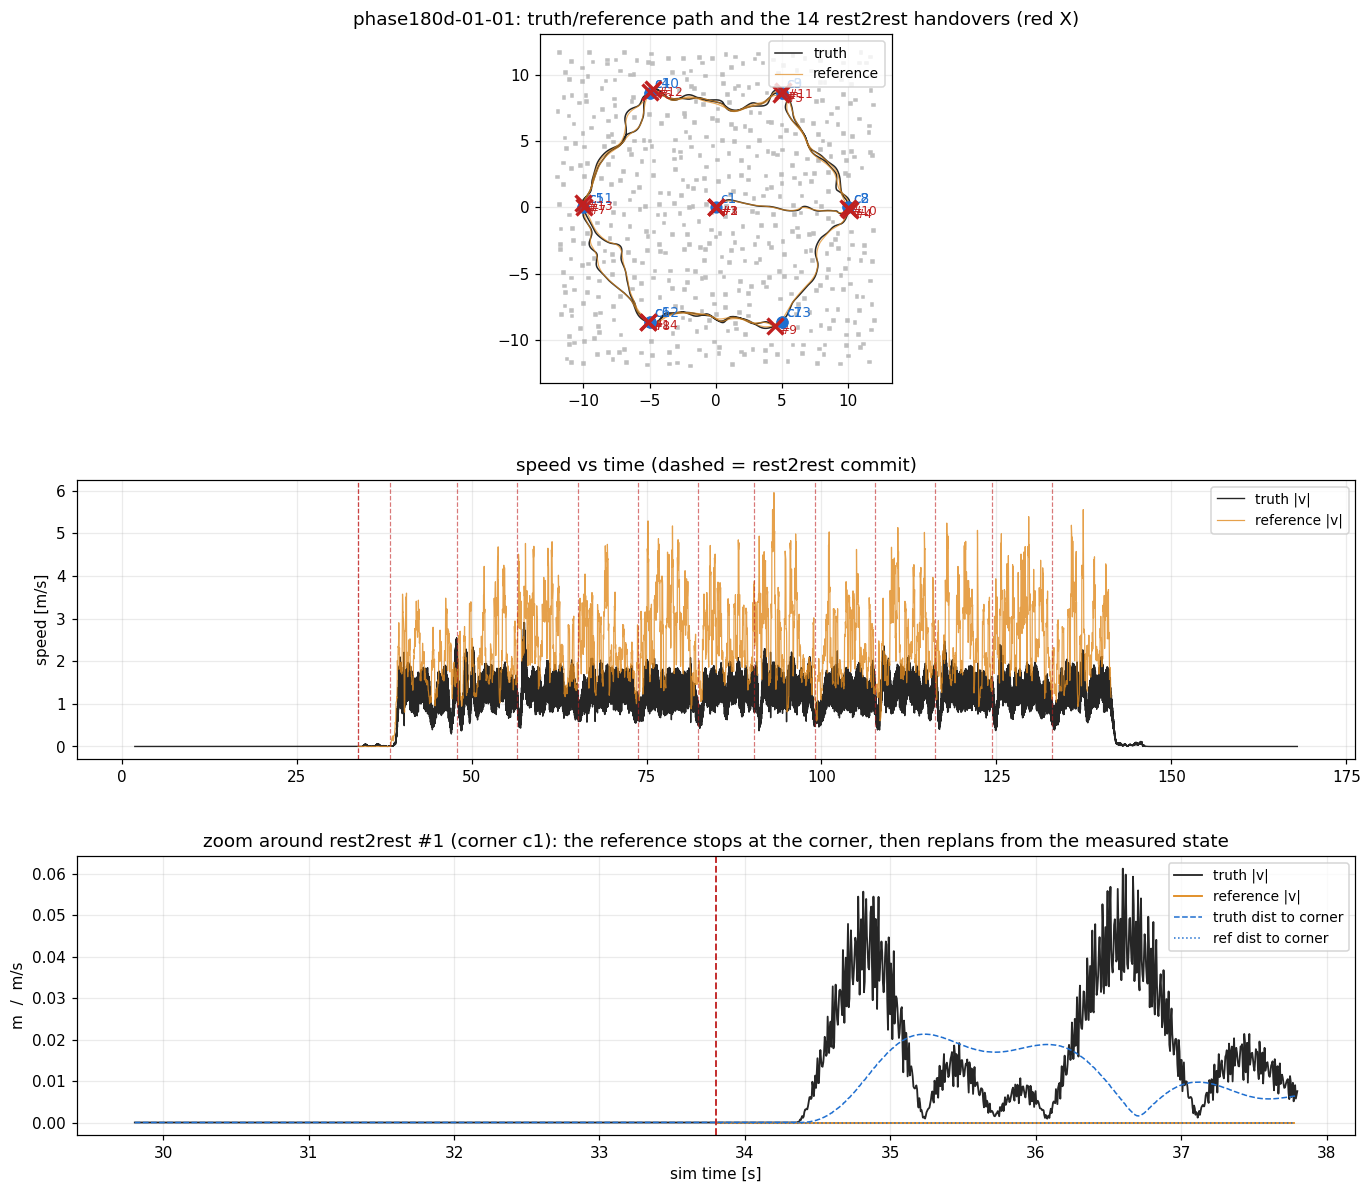
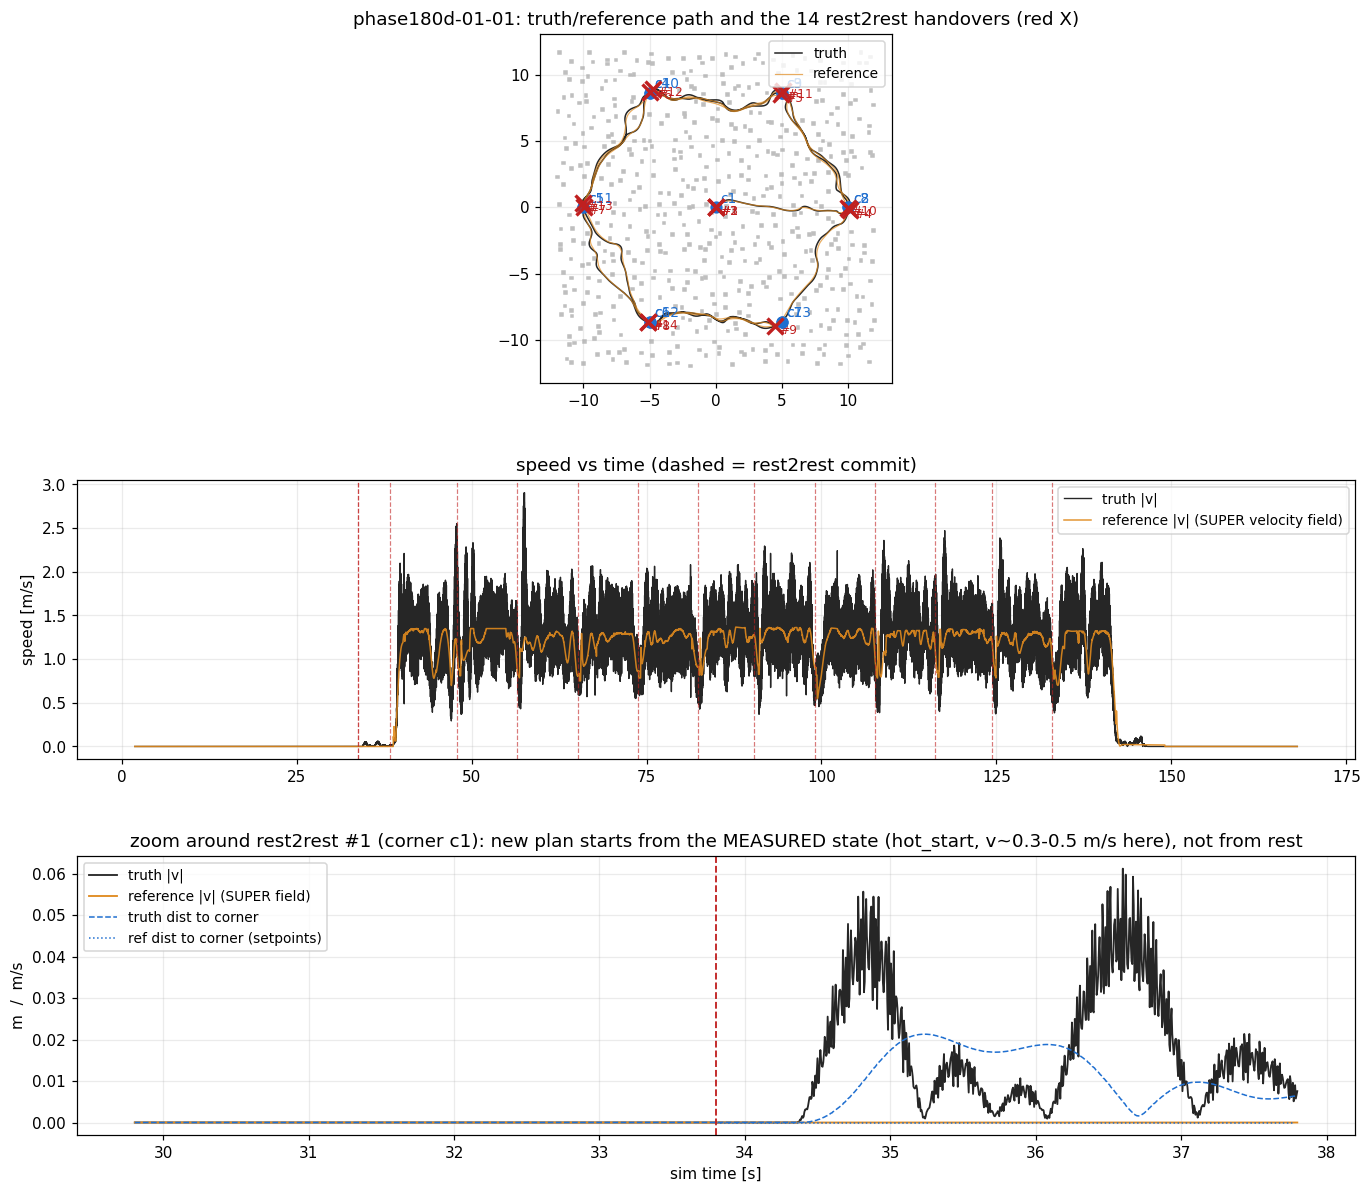
round54b：更正rest2rest速度判读——旧图'参考降到0'是setpoints差分伪影；用SUPER PVA velocity字段重算：rest2rest时刻参考|v|=0.83-1.24m/s,真值最低0.29-0.57；规划起点=实测位置+实测速度(hot_start_en=true,cap1.15m/s,|v|>0.05且goal距离>0.41m才注入)；真实代价=新旧轨迹~0.3-0.6m/s速度台阶+0.1-0.3s再加速；§137.1

Changed region(s): [[0.2757, 0.4032, 0.9803, 0.6203], [0.0613, 0.6823, 0.9803, 0.8064], [0.0, 0.4342, 0.0613, 0.5583]]

diff --git a/scripts/plot_rest2rest.py b/scripts/plot_rest2rest.py
@@ -42,11 +42,31 @@ def main():
     d = L.load(a.tag)
     t, E, N, ts, ce, cn = d["t"], d["E"], d["N"], d["ts"], d["ce"], d["cn"]
     corners = d["corners"]
-    # truth / reference speed
+    # truth speed
     vt = np.hypot(np.gradient(E, t), np.gradient(N, t))
-    vr = np.hypot(np.gradient(ce, ts), np.gradient(cn, ts))
-    ker = np.ones(9) / 9.0
-    vr = np.convolve(np.pad(vr, 4, mode="edge"), ker, mode="valid")
+    # REFERENCE speed: take the velocity FIELD of the published PVA (traj.csv.cmd vx_l/vy_l).  Differentiating
+    # the 50-100 Hz setpoints positions produces spurious zeros at every direction change (aliasing sawtooth) --
+    # that artefact was once mis-read as "the reference brakes to 0 at a rest2rest".
+    tr = list(csv.DictReader(open(os.path.join(run, "traj.csv.cmd.csv"))))
+    tt = np.array([float(r["t_us"]) * 1e-6 for r in tr])
+    vr_raw = np.hypot([float(r["vx_l"]) for r in tr], [float(r["vy_l"]) for r in tr])
+    oo = np.argsort(tt); tt, vr_raw = tt[oo], vr_raw[oo]
+    kk = np.concatenate([[True], np.diff(tt) > 1e-9]); tt, vr_raw = tt[kk], vr_raw[kk]
+    te = tt - tt[0]
+    # align the SUPER epoch clock to sim by matching the speed profile to the truth's (one constant offset)
+    best = (1e9, 0.0)
+    for s0 in np.arange(0.0, 60.0, 0.05):
+        vv = np.interp(t, te + s0, vr_raw, left=np.nan, right=np.nan)
+        m = np.isfinite(vv) & (t > 35) & (t < 140)
+        if m.sum() < 200:
+            continue
+        err = np.nanmean(np.abs(vv[m] - vt[m]))
+        if err < best[0]:
+            best = (err, s0)
+    ref_off = best[1]
+    vr = np.interp(t, te + ref_off, vr_raw, left=0.0, right=0.0)
+    print("reference speed from traj.csv.cmd velocity field (clock offset %.2f s, speed err %.2f m/s)"
+          % (ref_off, best[0]))
     ev = [e for e in events(a.tag, run) if np.isfinite(e[0])]
     print("== rest2rest events: %d" % len(ev))
     rows = []
@@ -62,9 +82,11 @@ def main():
             dc, lab = float("nan"), "?"
         w = (t >= te - 1.0) & (t <= te + 1.5)
         vmin = float(np.min(vt[w])) if w.any() else float("nan")
-        rows.append((i, te, lab, dc, vmin, dur))
-        print("  #%2d t=%7.2f s  %-4s d(corner)=%.2f m  truth v_min(±1s)=%.2f m/s  prev traj %.2f s"
-              % (i, te, lab, dc, vmin, dur))
+        w2 = np.abs(t - te) <= 0.5
+        vref = float(np.median(vr[w2])) if w2.any() else float("nan")
+        rows.append((i, te, lab, dc, vmin, dur, vref))
+        print("  #%2d t=%7.2f s  %-4s d(corner)=%.2f m  truth v_min(±1s)=%.2f  ref|v|@event=%.2f m/s  prev traj %.2f s"
+              % (i, te, lab, dc, vmin, vref, dur))
     import matplotlib
     matplotlib.use("Agg")
     import matplotlib.pyplot as plt
@@ -90,13 +112,14 @@ def main():
     ax.set_aspect("equal"); ax.grid(alpha=0.25); ax.legend(loc="upper right", fontsize=9)
     ax2 = fig.add_subplot(gs[1, :])
     ax2.plot(t, vt, "-", color="0.15", lw=0.9, label="truth |v|")
-    ax2.plot(ts, vr, "-", color="#e08a1e", lw=0.8, alpha=0.8, label="reference |v|")
+    ax2.plot(t, vr, "-", color="#e08a1e", lw=1.0, alpha=0.9, label="reference |v| (SUPER velocity field)")
     for (te, _) in ev:
         ax2.axvline(te, color="#c02020", ls="--", lw=0.8, alpha=0.6)
     ax2.set_ylabel("speed [m/s]"); ax2.grid(alpha=0.25); ax2.legend(loc="upper right", fontsize=9)
     ax2.set_title("speed vs time (dashed = rest2rest commit)")
     # zoom: pick the event closest to a real corner
     pick = int(np.argmin([r[3] for r in rows])) if rows else 0
+    # rows now = (i, t, lab, dc, vmin, dur, vref)
     te = rows[pick][1]; cc_idx = None
     if corners:
         j = int(np.argmin(np.abs(t - te)))
@@ -106,16 +129,16 @@ def main():
     wsel = (t >= te - 4) & (t <= te + 4)
     ax3.plot(t[wsel], vt[wsel], "-", color="0.15", lw=1.2, label="truth |v|")
     wsel2 = (ts >= te - 4) & (ts <= te + 4)
-    ax3.plot(ts[wsel2], vr[wsel2], "-", color="#e08a1e", lw=1.2, label="reference |v|")
+    ax3.plot(t[wsel], vr[wsel], "-", color="#e08a1e", lw=1.2, label="reference |v| (SUPER field)")
     if corners and cc_idx is not None:
         c = corners[cc_idx]
         dt_ = np.hypot(E - c[0], N - c[1]); dr_ = np.hypot(ce - c[0], cn - c[1])
         ax3.plot(t[wsel], dt_[wsel], "--", color="#1f6fd0", lw=1.0, label="truth dist to corner")
-        ax3.plot(ts[wsel2], dr_[wsel2], ":", color="#1f6fd0", lw=1.0, label="ref dist to corner")
+        ax3.plot(ts[wsel2], dr_[wsel2], ":", color="#1f6fd0", lw=1.0, label="ref dist to corner (setpoints)")
     ax3.axvline(te, color="#c02020", ls="--", lw=1.2)
     ax3.set_xlabel("sim time [s]"); ax3.set_ylabel("m  /  m/s")
-    ax3.set_title("zoom around rest2rest #%d (corner c%d): the reference stops at the corner, then replans from "
-                  "the measured state" % (pick + 1, (cc_idx + 1) if cc_idx is not None else -1))
+    ax3.set_title("zoom around rest2rest #%d (corner c%d): new plan starts from the MEASURED state "
+                  "(hot_start, v~0.3-0.5 m/s here), not from rest" % (pick + 1, (cc_idx + 1) if cc_idx is not None else -1))
     ax3.grid(alpha=0.25); ax3.legend(loc="best", fontsize=9)
     out = a.out or os.path.join(ROOT, "docs", "evidence", "final", "%s_rest2rest.png" % a.tag)
     fig.savefig(out, dpi=110, bbox_inches="tight")

diff --git a/docs/FLIGHT-ANALYSIS.md b/docs/FLIGHT-ANALYSIS.md
@@ -3207,5 +3207,15 @@ FSM 的 goal 消息带 via 列表；参考状态拼接沿用。SUPER 里已有 `
 2. 速度时间图：每个角点处参考速度短暂降到 ~0（DEFER 等旧轨迹飞完），随后新轨迹**从实测状态重启**；
    真值最低速 0.29–0.57 m/s —— **不是停住**（Q4 实测 dwell 2.6–3.2 s、vmin 0.46–0.78，全部 PASS）；
 3. 放大图（选离角点最近的 #12 c4）：参考/真值到角点距离都收敛到 <0.2 m，参考速度为 0 的瞬间即 restart 时刻。
-结论：当前 DEFER 的角点 rest2rest = **每角点一次"参考降速→从实测状态重新规划"**，不表现为绕弯或长停顿；
+结论：当前 DEFER 的角点 rest2rest = **每角点一次"从实测状态重新规划"**（参考速度 0.83–1.24 m/s，不归零；见 §137.1 更正），不表现为绕弯或长停顿；
 在 180b/180d 上它不再造成腿中段低速/环（Q1=0、S2 只剩 c1 环）。
+
+### 137.1 更正：rest2rest 时参考**没有**降到 0（旧图的差分伪影）
+- 旧图/旧文里的"参考速度在角点降到 0"是**对 setpoints 位置流做差分**造成的伪影（50–100 Hz 位置 + 方向突变 + ZOH）。
+- 用 **SUPER PVA 的 velocity 字段**（`traj.csv.cmd` 的 vx_l/vy_l，用速度相关对齐 epoch→sim，偏移 19.0 s）重算：
+  **rest2rest 时刻参考 |v| = 0.83–1.24 m/s**；真值 ±1 s 最低 0.29–0.57 m/s。
+- 规划起点：`PlanFromRest` 的位置=实测；速度=实测注入（`hot_start_en: true`，`hot_start_vel_ratio 0.85`
+  → 上限 1.15 m/s），仅当 |v|>0.05 且 `goal 距离 > stop_dis ≈ 0.41 m`；`general_bc_en` 默认关（不给加速度）。
+- 所以角点 rest2rest 的真实代价是**速度不连续**：旧轨迹以 goal PVA 终端速度 ~0.9 m/s 结束，新轨迹从
+  实测的 0.3–0.5 m/s 起步 → 约 0.3–0.6 m/s 的台阶 + 重新加速 0.1–0.3 s；真值因此短暂降到 0.29–0.57 m/s，
+  而不是"参考归零/飞机停住"。
